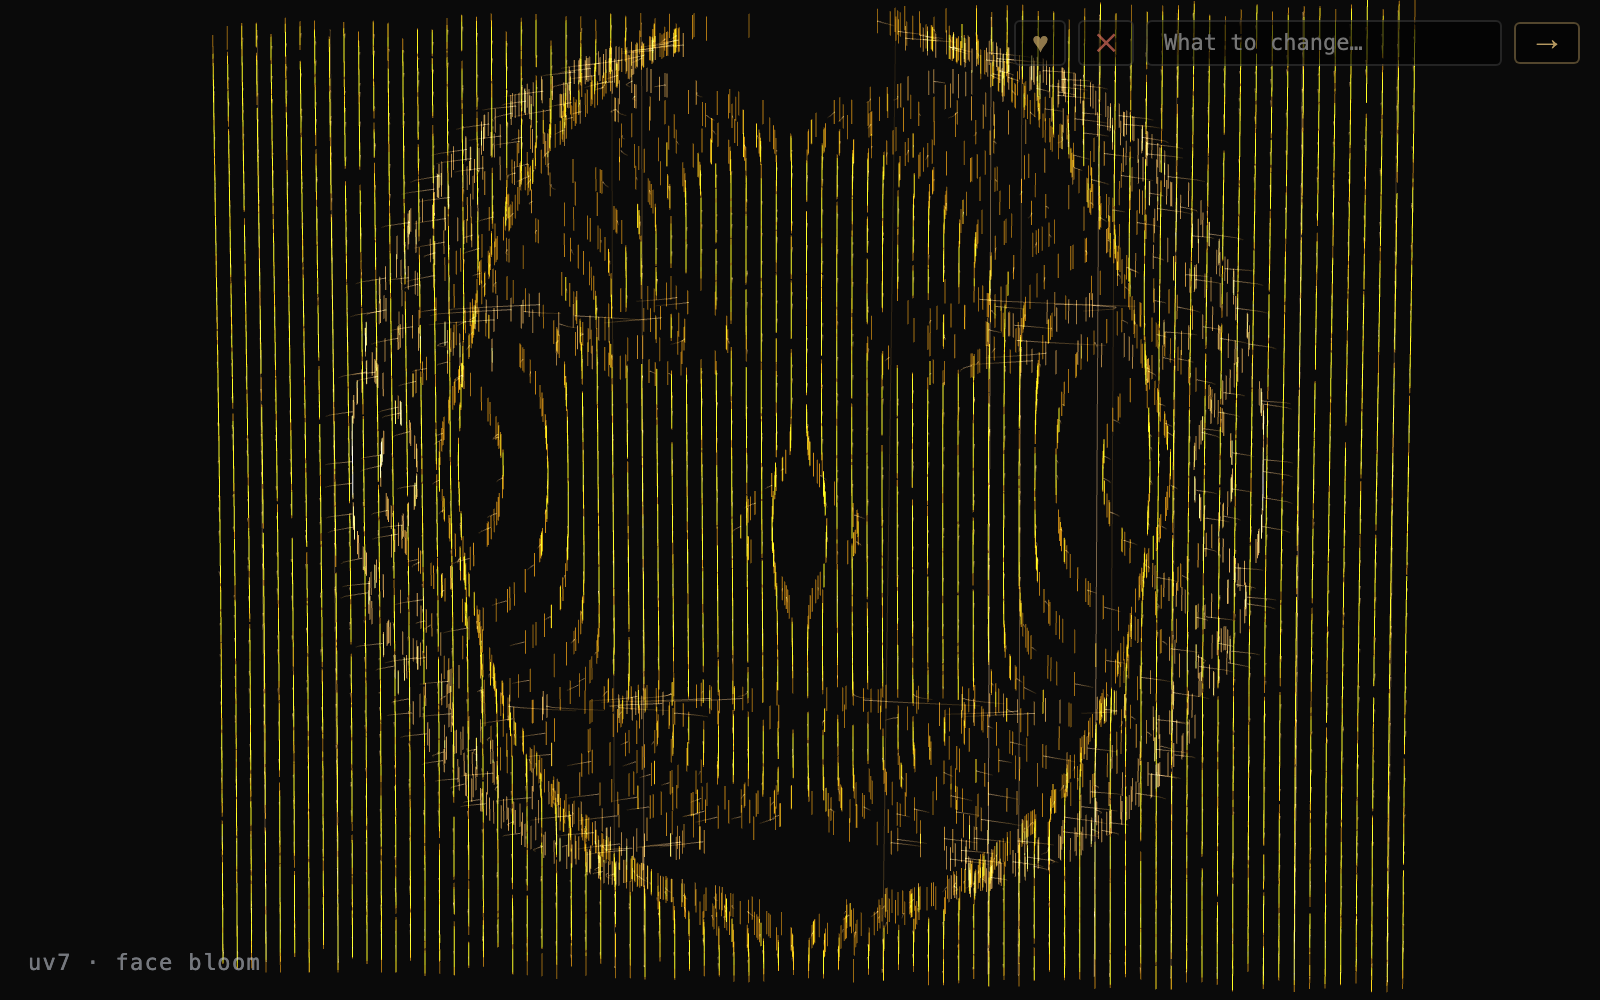
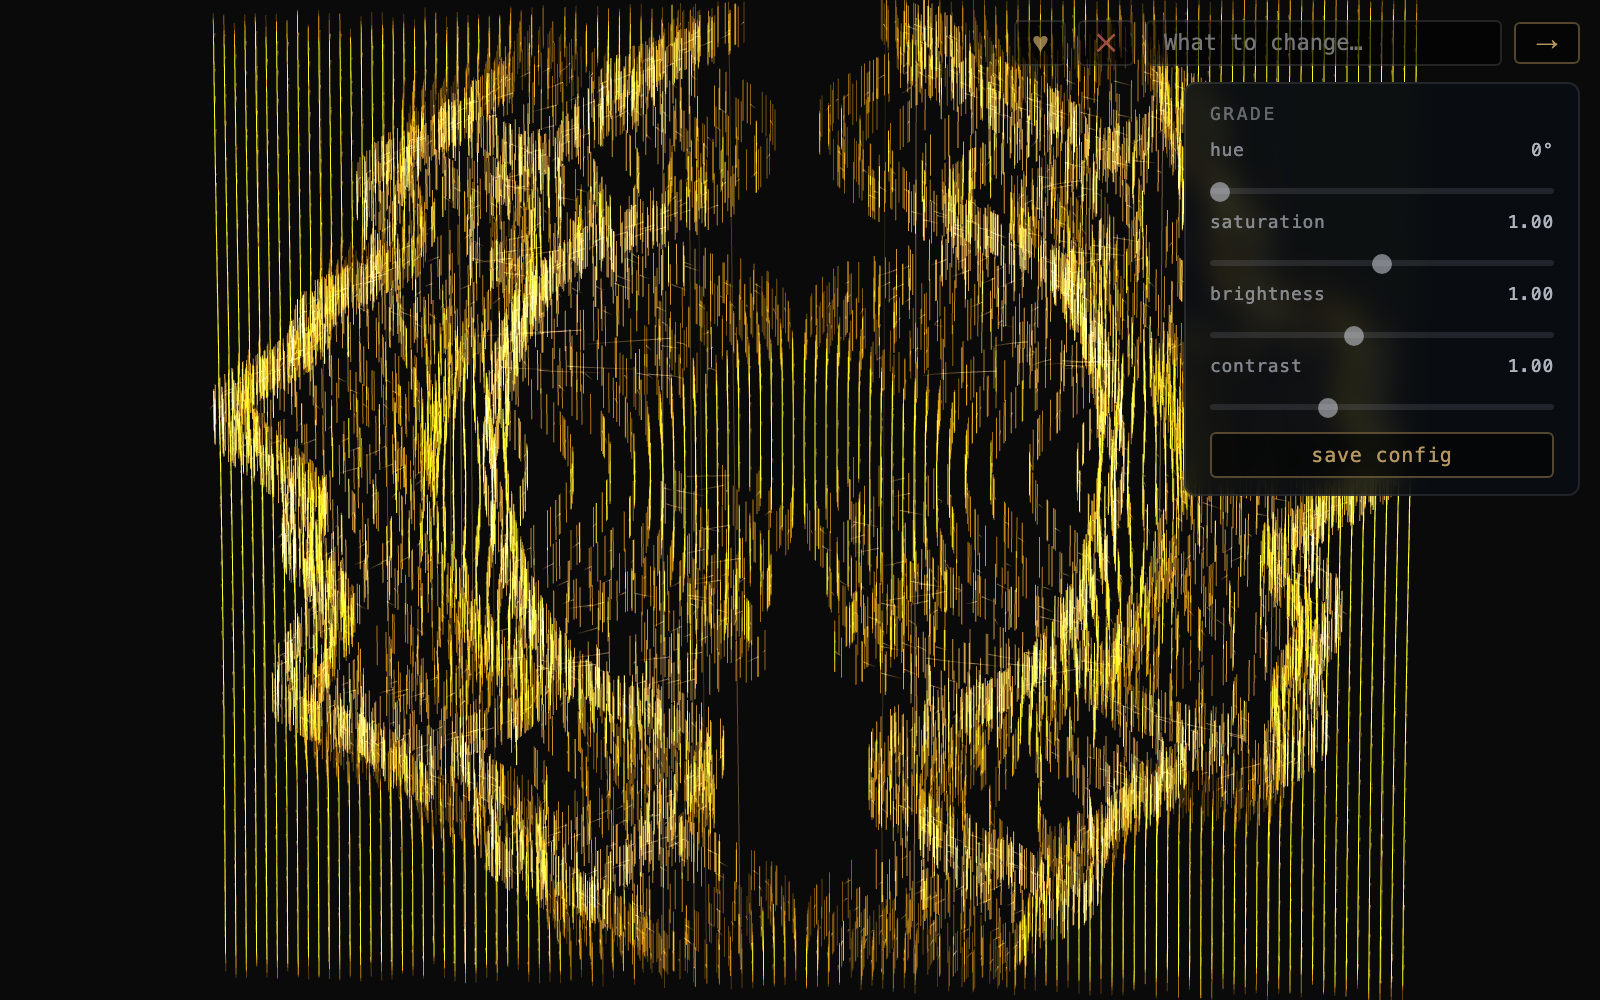
uv7: replace human-face bloom with a majestic lion front-face
Swap faceField → lionField (mane halo, ears, almond eyes, nose triangle,
whisker pads) + bright figure/ground opacity + higher rail/segment density
so the lion blazes legibly at peak bloom. Validator non-bg 35.5%.

diff --git a/pieces/uv7/index.html b/pieces/uv7/index.html
@@ -3,7 +3,7 @@
 <head>
 <meta charset="utf-8">
 <meta name="viewport" content="width=device-width, initial-scale=1">
-<title>uv7 · face bloom · Parallels×portrait</title>
+<title>uv7 · lion bloom · Parallels×mane</title>
 <!-- MOTION: bloom, intensity: responsive -->
 <style>
   html, body { margin:0; padding:0; height:100%; background:#0a0a0a; overflow:hidden;
@@ -13,7 +13,7 @@
 </style>
 </head>
 <body>
-<div class="id">uv7 · face bloom</div>
+<div class="id">uv7 · lion bloom</div>
 <script type="importmap">
 { "imports": { "three": "https://unpkg.com/three@0.160.0/build/three.module.js" } }
 </script>
@@ -22,8 +22,9 @@ import * as THREE from 'three';
 
 // uv7 — hybrid of as2 (Parallels) × kxu (botanical calyx trails)
 // Vertical amber rails at rest; mouse proximity + auto-pulse blooms rails into
-// a human face silhouette. Rails displace laterally to reveal eyes, nose, mouth.
-// Background: #0a0a0a. Color: amber #c9850a → skin tone #e8c090 at face features.
+// a majestic lion's front-face silhouette. Rails displace laterally to reveal
+// the mane halo, ears, eyes, nose and whisker pads.
+// Background: #0a0a0a. Color: tawny amber #c9850a → highlight #e8c090 on features.
 
 const renderer = new THREE.WebGLRenderer({ antialias: true });
 renderer.setPixelRatio(Math.min(devicePixelRatio, 2));
@@ -37,9 +38,9 @@ camera.position.set(0, 0, 18);
 camera.lookAt(0, 0, 0);
 
 // ── Rail system ────────────────────────────────────────────────────────────
-const RAIL_COUNT = 80;
-const PARTICLES_PER_RAIL = 120;
-const TOTAL = RAIL_COUNT * PARTICLES_PER_RAIL; // 9600
+const RAIL_COUNT = 110;
+const PARTICLES_PER_RAIL = 150;
+const TOTAL = RAIL_COUNT * PARTICLES_PER_RAIL; // 16500
 
 // Rail base X: evenly spaced −10 to +10
 const railBaseX = [];
@@ -47,44 +48,67 @@ for (let i = 0; i < RAIL_COUNT; i++) {
   railBaseX.push(-10 + (i / (RAIL_COUNT - 1)) * 20);
 }
 
-// ── Face field function ────────────────────────────────────────────────────
+// ── Lion front-face field ───────────────────────────────────────────────────
 // rx in [-10, +10], ry in [-8, +8]
-// Returns lateral displacement magnitude (always positive; sign applied by caller)
-function faceField(rx, ry) {
-  // Head outline — oval rim
-  const headDist = Math.sqrt((rx / 5.5) ** 2 + ((ry - 0.5) / 7.5) ** 2);
-  const headRim = Math.exp(-((headDist - 0.9) ** 2) / 0.006) * 3.5;
+// Returns lateral displacement magnitude (always positive; sign applied by caller).
+// A majestic lion seen head-on: broad radial mane halo framing a rounded face
+// disk, two ears, intense almond eyes, a downward nose triangle and twin
+// whisker pads. Each feature is a gaussian ridge along its contour.
+function lionField(rx, ry) {
+  const cx = rx;
+  const cy = ry - 0.3;                  // lift the face slightly into frame
+  const ang = Math.atan2(cy, cx);
 
-  // Left eye — ellipse rim
-  const lex = rx + 2.2, ley = ry - 2.8;
-  const leftEyeDist = Math.sqrt((lex / 1.3) ** 2 + (ley / 0.8) ** 2);
-  const leftEye = Math.exp(-((leftEyeDist - 0.55) ** 2) / 0.02) * 4.0;
+  // Mane — the majestic halo. Large ellipse rim with ragged angular tufts.
+  const maneR = Math.sqrt((cx / 8.4) ** 2 + (cy / 7.6) ** 2);
+  const tuft  = 0.86 + 0.075 * Math.sin(ang * 9.0) + 0.04 * Math.sin(ang * 21.0 + 1.3);
+  const maneOuter = Math.exp(-((maneR - tuft) ** 2) / 0.010) * 3.4;
+  const maneInner = Math.exp(-((maneR - 0.58) ** 2) / 0.020) * 1.8;
 
-  // Right eye
-  const rex = rx - 2.2, rey = ry - 2.8;
-  const rightEyeDist = Math.sqrt((rex / 1.3) ** 2 + (rey / 0.8) ** 2);
-  const rightEye = Math.exp(-((rightEyeDist - 0.55) ** 2) / 0.02) * 4.0;
+  // Face disk — rounded inner rim framing the features.
+  const faceR  = Math.sqrt((cx / 4.0) ** 2 + ((cy - 0.2) / 4.4) ** 2);
+  const faceRim = Math.exp(-((faceR - 0.86) ** 2) / 0.013) * 2.8;
 
-  // Nose bridge — narrow vertical ridge
-  const noseDist = Math.sqrt((rx / 0.6) ** 2 + ((ry + 0.5) / 2.0) ** 2);
-  const nose = Math.exp(-(noseDist ** 2) / 0.15) * 1.5;
+  // Ears — rounded, set high on the head.
+  const lEar = Math.sqrt(((cx + 2.9) / 1.05) ** 2 + ((cy - 4.4) / 1.15) ** 2);
+  const rEar = Math.sqrt(((cx - 2.9) / 1.05) ** 2 + ((cy - 4.4) / 1.15) ** 2);
+  const ears = (Math.exp(-((lEar - 0.65) ** 2) / 0.02) +
+                Math.exp(-((rEar - 0.65) ** 2) / 0.02)) * 2.6;
 
-  // Mouth — horizontal arc
-  const mouthY = ry + 3.5;
-  const mouthDist = Math.sqrt((Math.max(0, Math.abs(rx) - 2.5)) ** 2 + (mouthY / 0.5) ** 2);
-  const mouth = Math.exp(-(mouthDist ** 2) / 0.04) * 3.5;
+  // Eyes — almond, forward-facing, intense.
+  const leD = Math.sqrt(((cx + 1.95) / 1.15) ** 2 + ((cy - 2.2) / 0.6) ** 2);
+  const reD = Math.sqrt(((cx - 1.95) / 1.15) ** 2 + ((cy - 2.2) / 0.6) ** 2);
+  const eyes = (Math.exp(-((leD - 0.5) ** 2) / 0.012) +
+                Math.exp(-((reD - 0.5) ** 2) / 0.012)) * 4.2;
 
-  // Scale up 1.5× so face features are large enough in the thumbnail
-  return (headRim + leftEye + rightEye + nose + mouth) * 1.5;
+  // Nose — downward triangle outline (two sides) at center.
+  let nose = 0;
+  const ny = cy + 0.4;                  // nose region: cy in [-1.1, 0.5]
+  if (ny < 0.5 && ny > -1.1) {
+    const tt = (0.5 - ny) / 1.6;        // 0 at top, 1 at the tip
+    const halfW = 0.95 * (1 - tt) + 0.12; // narrows toward the tip
+    nose = Math.exp(-((Math.abs(cx) - halfW) ** 2) / 0.02) * 2.6;
+  }
+
+  // Whisker pads — twin rounded muzzle puffs below the nose.
+  const lpD = Math.sqrt(((cx + 1.25) / 1.25) ** 2 + ((cy + 2.5) / 1.0) ** 2);
+  const rpD = Math.sqrt(((cx - 1.25) / 1.25) ** 2 + ((cy + 2.5) / 1.0) ** 2);
+  const pads = (Math.exp(-((lpD - 0.7) ** 2) / 0.02) +
+                Math.exp(-((rpD - 0.7) ** 2) / 0.02)) * 2.2;
+
+  // Philtrum — short vertical seam between the pads.
+  const phil = Math.exp(-(cx ** 2) / 0.05) * Math.exp(-((cy + 1.9) ** 2) / 0.5) * 2.0;
+
+  return (maneOuter + maneInner + faceRim + ears + eyes + nose + pads + phil) * 1.4;
 }
 
-// ── Pre-compute face displacement per rail×particle ────────────────────────
+// ── Pre-compute lion displacement per rail×particle ────────────────────────
 const faceDisp = [];
 for (let r = 0; r < RAIL_COUNT; r++) {
   faceDisp[r] = new Float32Array(PARTICLES_PER_RAIL);
   for (let p = 0; p < PARTICLES_PER_RAIL; p++) {
     const y = -8 + (p / (PARTICLES_PER_RAIL - 1)) * 16;
-    faceDisp[r][p] = faceField(railBaseX[r], y);
+    faceDisp[r][p] = lionField(railBaseX[r], y);
   }
 }
 
@@ -109,7 +133,7 @@ const railBloomVel = new Float32Array(RAIL_COUNT).fill(0);
 
 // ── Particle geometry ──────────────────────────────────────────────────────
 const segmentGeom = new THREE.BufferGeometry();
-const segY = 0.20;
+const segY = 0.34;
 segmentGeom.setAttribute('position', new THREE.Float32BufferAttribute([
   0, -segY, 0,
   0,  segY, 0
@@ -359,7 +383,7 @@ function loop() {
     // faceDisp is indexed by particle slot p (0..PARTICLES_PER_RAIL-1)
     // But since particles drift in y, we re-compute faceField at current y
     // (cheaper than full precompute given drift; use precomputed only at init)
-    const faceD = faceField(railX, p.y);
+    const faceD = lionField(railX, p.y);
 
     // Sign: rails left of center push left, right push right → face silhouette
     const sign = railX < 0 ? -1 : (railX > 0 ? 1 : 0);
@@ -368,14 +392,17 @@ function loop() {
     // Skin tint: particles where faceDisp > 2.0 get skin color
     const skinFactor = Math.min(1.0, Math.max(0, (faceD - 2.0) / 2.0));
 
-    // Opacity
+    // Opacity — figure/ground: at rest the vertical rails read softly; as the
+    // rails bloom, particles that land on a lion feature surge bright while the
+    // undisplaced background rails recede, so the lion emerges from the reeds.
     const edgeFade = 1.0 - Math.abs(p.y) / 8.5;
-    let opacity = Math.max(0.72, edgeFade);
+    const featureGlow = Math.min(1.0, (faceD * bloom) / 3.0);
+    let opacity = Math.max(0.5, edgeFade) * (1.0 - 0.35 * bloom)  // rails stay present
+                + featureGlow * 1.4;                              // features blaze bright
     const dyMouse = Math.abs(p.y - mouseWorldY);
     if (mousePresent && dyMouse < 3.0) {
-      opacity += (1.0 - dyMouse / 3.0) * 0.5;
+      opacity += (1.0 - dyMouse / 3.0) * 0.35;
     }
-    opacity += bloom * 0.3;
     opacity = Math.min(1.0, opacity);
     const pulse = 0.88 + 0.12 * Math.sin(time + p.phase);
     opacity *= pulse;
